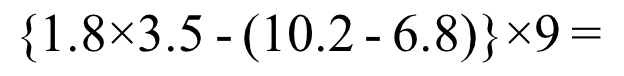
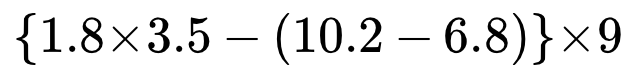
デモのサンプルを数式書体で描き直す（tools/make_samples.py）
サンプルは本文書体で描いていたので、学習データ（数式書体）とも実物の教科書とも字形が
違っていた。KaTeX Main + KaTeX Math Italic、マイナスは U+2212 で描き直した。
作り直しは 1 コマンド（tools/make_samples.py）にして、**描いたら読み直す**ところまで含めた
（絵だけ作って満足すると、デモに読めないものが並ぶ）。

7 枚すべて出荷中のモデルで読み直しに成功:
  s1 x^2-5x+6=0 / s2 5x/6=5 / s3 (x+1)^2 / s4 x^2+x=1 / s5 3x^2+5x-2=0 /
  s6 {1.8×3.5-(10.2-6.8)}×9 -> 26.1 / s7 2 5/8×4/7-(5 1/3-1/2)÷5 -> 8/15

Changed region(s): [[0.0, 0.1579, 1.0, 0.8421]]

diff --git a/tools/make_samples.py b/tools/make_samples.py
@@ -1,0 +1,77 @@
+"""デモのサンプル画像（wasm/samples/s1..s7.png）を作り直す。
+
+**リポジトリの数式書体で描く**（KaTeX Main + KaTeX Math Italic、マイナスは U+2212）。
+学習データと同じ字形になり、実物の教科書にも近い。画像は自前の組版器で描いたものなので
+ライセンスの問題がない（教科書の写真は入れられない）。
+
+  python tools/make_samples.py            # 作り直す
+  python tools/make_samples.py --check    # 読み直して式が合うかだけ見る
+"""
+import argparse
+import os
+import subprocess
+import sys
+
+ROOT = os.path.dirname(os.path.dirname(os.path.abspath(__file__)))
+if hasattr(sys.stdout, "reconfigure"):
+    sys.stdout.reconfigure(encoding="utf-8", errors="replace")
+
+ROMAN = os.path.join(ROOT, "fonts", "katex", "KaTeX_Main-Regular.ttf")
+ITALIC = os.path.join(ROOT, "fonts", "katex", "KaTeX_Math-Italic.ttf")
+
+# (ファイル名, 式, 小学校の書き方か, px)
+SAMPLES = [
+    ("s1.png", "x^2 - 5x + 6 = 0", False, 56),
+    ("s2.png", "5x/6 = 5", False, 56),
+    ("s3.png", "(x + 1)^2", False, 56),
+    ("s4.png", "x^2 + x = 1", False, 56),
+    ("s5.png", "3x^2 + 5x - 2 = 0", False, 56),
+    ("s6.png", "{1.8 × 3.5 - (10.2 - 6.8)} × 9", True, 52),
+    ("s7.png", "mixed(2,5,8) × frac(4,7) - (mixed(5,1,3) - frac(1,2)) ÷ 5", True, 52),
+]
+
+
+def exe():
+    for name in ("mathcam.exe", "mathcam"):
+        p = os.path.join(ROOT, name)
+        if os.path.exists(p):
+            return p
+    return ""
+
+
+def main():
+    ap = argparse.ArgumentParser()
+    ap.add_argument("--check", action="store_true")
+    ap.add_argument("--model", default=os.path.join("models", "sym_det_v4.onnx"))
+    a = ap.parse_args()
+    mc = exe()
+    if not mc:
+        print("mathcam の実行ファイルが無い")
+        return 1
+
+    for name, src, arith, px in SAMPLES:
+        out = os.path.join(ROOT, "wasm", "samples", name)
+        if not a.check:
+            cmd = [mc, "render", "--expr", src, "--out", out, "--px", str(px),
+                   "--font", ROMAN, "--font-italic", ITALIC, "--italic", "--minus", "2212"]
+            if arith:
+                cmd.append("--arith")
+            p = subprocess.run(cmd, stdout=subprocess.PIPE, stderr=subprocess.STDOUT,
+                               encoding="utf-8", errors="replace")
+            print("%-8s %s" % (name, (p.stdout or "").strip().splitlines()[-1:]))
+            if p.returncode != 0:
+                return 1
+        # **描いたら読み直す**（絵だけ作って満足すると、デモで読めないものが並ぶ）
+        p2 = subprocess.run([mc, "photo", "--img", out, "--model", a.model],
+                            stdout=subprocess.PIPE, stderr=subprocess.STDOUT,
+                            encoding="utf-8", errors="replace")
+        read = ""
+        for line in (p2.stdout or "").splitlines():
+            if line.startswith("読めた式: "):
+                read = line[len("読めた式: "):].strip()
+        print("    読み直し: %s" % (read or "(読めない)"))
+    return 0
+
+
+if __name__ == "__main__":
+    sys.exit(main())
